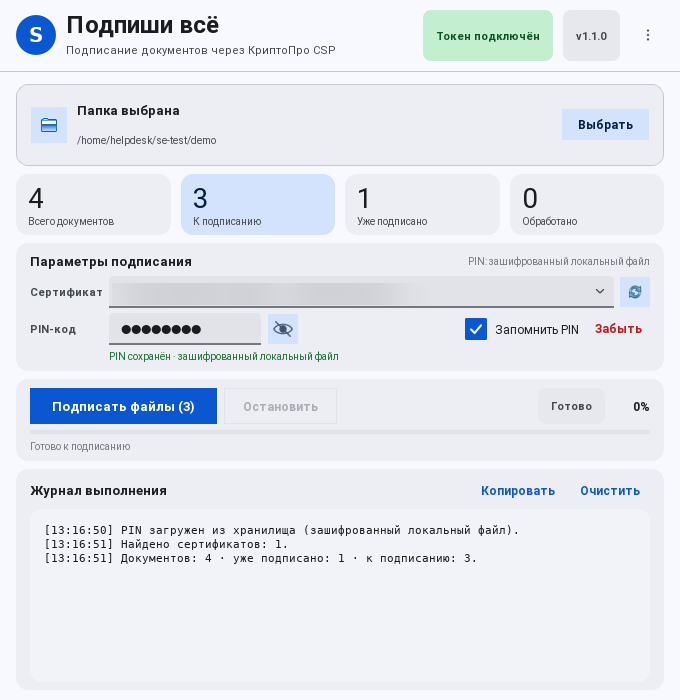
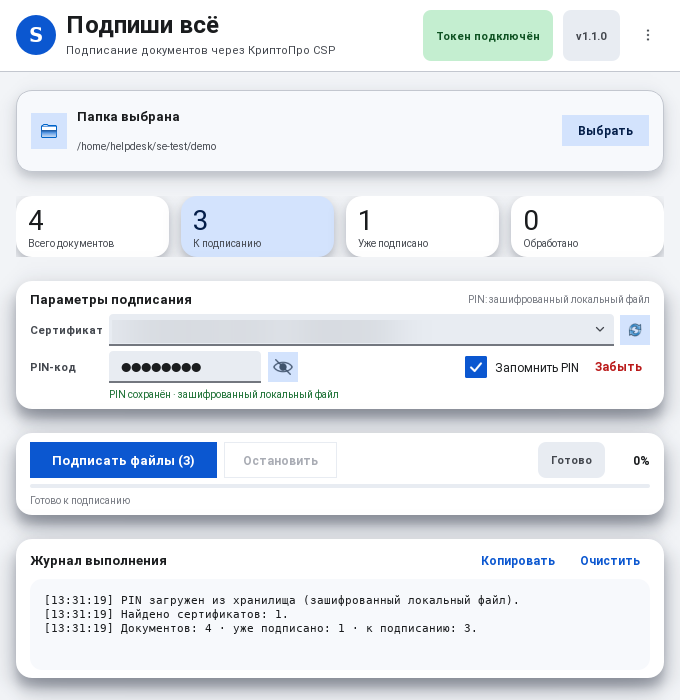
Add explicit card shadows and neutral Material palette

diff --git a/Sign-everything.py b/Sign-everything.py
@@ -50,6 +50,7 @@ from PyQt5.QtWidgets import (
     QDialog,
     QFileDialog,
     QFrame,
+    QGraphicsDropShadowEffect,
     QGridLayout,
     QHBoxLayout,
     QLabel,
@@ -602,6 +603,15 @@ def repolish(widget: QWidget) -> None:
     widget.update()
 
 
+def apply_elevation(widget: QWidget, blur: int = 32, offset: int = 6, alpha: int = 80) -> None:
+    """Материальная тень карточки. QSS box-shadow не поддерживает."""
+    effect = QGraphicsDropShadowEffect(widget)
+    effect.setBlurRadius(blur)
+    effect.setOffset(0, offset)
+    effect.setColor(QColor(15, 23, 42, alpha))
+    widget.setGraphicsEffect(effect)
+
+
 class ElidedLabel(QLabel):
     def __init__(self, text: str = "", parent=None):
         super().__init__(parent)
@@ -652,6 +662,7 @@ class StatCard(QFrame):
         caption_label.setObjectName("StatCaption")
         layout.addWidget(self.value_label)
         layout.addWidget(caption_label)
+        apply_elevation(self, blur=26, offset=5, alpha=80)
 
     def set_value(self, value: int) -> None:
         self.value_label.setText(str(value))
@@ -698,6 +709,7 @@ class DropZone(QFrame):
         self.choose_button.setCursor(Qt.PointingHandCursor)
         self.choose_button.clicked.connect(self.chooseClicked)
         layout.addWidget(self.choose_button)
+        apply_elevation(self, blur=28, offset=6, alpha=65)
 
     def set_folder(self, path: str) -> None:
         self.title_label.setText("Папка выбрана")
@@ -869,7 +881,7 @@ def build_app_qss() -> str:
     chevron = _ui_asset("chevron.png")
     return f"""
 /* Material 3 — базовые поверхности */
-QMainWindow, QWidget#Root, QDialog {{ background: #F8F9FF; }}
+QMainWindow, QWidget#Root, QDialog {{ background: #F2F4F7; }}
 QToolTip {{
     background: #1A1C1E;
     color: #F8F9FF;
@@ -895,7 +907,7 @@ QScrollBar::add-page:vertical, QScrollBar::sub-page:vertical {{ background: tran
 
 /* Меню */
 QMenuBar {{
-    background: #F8F9FF;
+    background: #FFFFFF;
     color: #43474E;
     font-size: 8.5pt;
     padding: 2px 6px;
@@ -906,9 +918,9 @@ QMenuBar::item {{
     padding: 4px 10px;
     border-radius: 8px;
 }}
-QMenuBar::item:selected {{ background: #E1E3E9; color: #1A1C1E; }}
+QMenuBar::item:selected {{ background: #E8ECF2; color: #1A1C1E; }}
 QMenu {{
-    background: #ECEEF4;
+    background: #FFFFFF;
     color: #1A1C1E;
     border: 0;
     border-radius: 12px;
@@ -919,7 +931,7 @@ QMenu::item:selected {{ background: #D3E3FD; color: #041E49; }}
 
 /* Верхняя панель (top app bar) */
 QFrame#Header {{
-    background: #F8F9FF;
+    background: #FFFFFF;
     border: 0;
     border-bottom: 1px solid #C3C7CF;
     border-radius: 0;
@@ -931,7 +943,7 @@ QLabel#BrandMark {{
 QLabel#BrandTitle {{ color: #1A1C1E; font-size: 17pt; font-weight: 500; }}
 QLabel#BrandSubtitle {{ color: #43474E; font-size: 8pt; }}
 QLabel#HeaderBadge {{
-    background: #E6E8EE;
+    background: #E8ECF2;
     border: 0;
     border-radius: 8px;
     color: #43474E;
@@ -944,14 +956,14 @@ QLabel#HeaderBadge[state="ok"] {{ background: #C4EED0; color: #0E5222; }}
 
 /* Карточки */
 QFrame#Card {{
-    background: #ECEEF4;
+    background: #FFFFFF;
     border: 0;
-    border-radius: 12px;
+    border-radius: 16px;
 }}
 QFrame#StatCard {{
-    background: #ECEEF4;
+    background: #FFFFFF;
     border: 0;
-    border-radius: 12px;
+    border-radius: 16px;
 }}
 QFrame#StatCard[accent="true"] {{ background: #D3E3FD; }}
 QLabel#CardTitle {{ color: #1A1C1E; font-size: 9pt; font-weight: 600; }}
@@ -963,16 +975,16 @@ QLabel#StatCaption {{ color: #43474E; font-size: 7.5pt; }}
 
 /* Зона перетаскивания */
 QFrame#DropZone {{
-    background: #F2F3F9;
+    background: #FFFFFF;
     border: 1.5px dashed #C3C7CF;
-    border-radius: 12px;
+    border-radius: 16px;
 }}
 QFrame#DropZone[dragActive="true"] {{
     background: #D3E3FD;
     border: 2px dashed #0B57D0;
 }}
 QFrame#DropZone[selected="true"] {{
-    background: #ECEEF4;
+    background: #F7F9FC;
     border: 1px solid #C3C7CF;
 }}
 QLabel#DropTitle {{ color: #1A1C1E; font-size: 9.5pt; font-weight: 500; }}
@@ -984,7 +996,7 @@ QLabel#DropIcon {{
 
 /* Текстовые поля Material: заливка с нижней линией */
 QComboBox, QLineEdit {{
-    background: #E1E3E9;
+    background: #E8ECF2;
     border: 0;
     border-bottom: 2px solid #73777F;
     border-top-left-radius: 4px;
@@ -999,7 +1011,7 @@ QComboBox, QLineEdit {{
     min-height: 20px;
 }}
 QComboBox:focus, QLineEdit:focus {{
-    background: #E6E8EE;
+    background: #E8ECF2;
     border-bottom: 2px solid #0B57D0;
 }}
 QComboBox:disabled, QLineEdit:disabled {{ color: #8E9199; }}
@@ -1044,7 +1056,7 @@ QPushButton#Primary {{
 }}
 QPushButton#Primary:hover {{ background: #0842A0; }}
 QPushButton#Primary:pressed {{ background: #06327A; }}
-QPushButton#Primary:disabled {{ background: #E1E3E9; color: #A9ACB4; }}
+QPushButton#Primary:disabled {{ background: #E8ECF2; color: #A9ACB4; }}
 QPushButton#Tonal {{
     background: #D3E3FD;
     color: #041E49;
@@ -1055,7 +1067,7 @@ QPushButton#Tonal {{
 }}
 QPushButton#Tonal:hover {{ background: #C2D7FB; }}
 QPushButton#Tonal:pressed {{ background: #B0CBF7; }}
-QPushButton#Tonal:disabled {{ background: #E6E8EE; color: #A9ACB4; }}
+QPushButton#Tonal:disabled {{ background: #E8ECF2; color: #A9ACB4; }}
 QPushButton#Outlined {{
     background: transparent;
     color: #0B57D0;
@@ -1074,7 +1086,7 @@ QPushButton#OutlinedDanger {{
     font-weight: 600;
 }}
 QPushButton#OutlinedDanger:hover {{ background: rgba(186, 26, 26, 0.08); border-color: #BA1A1A; }}
-QPushButton#OutlinedDanger:disabled {{ color: #A9ACB4; border-color: #E1E3E9; background: transparent; }}
+QPushButton#OutlinedDanger:disabled {{ color: #A9ACB4; border-color: #E8ECF2; background: transparent; }}
 QPushButton#IconTonal {{
     background: #D3E3FD;
     border: 0;
@@ -1082,14 +1094,14 @@ QPushButton#IconTonal {{
     padding: 0;
 }}
 QPushButton#IconTonal:hover {{ background: #C2D7FB; }}
-QPushButton#IconTonal:disabled {{ background: #E6E8EE; }}
+QPushButton#IconTonal:disabled {{ background: #E8ECF2; }}
 QToolButton#IconButton {{
     background: transparent;
     border: 0;
     border-radius: 18px;
     padding: 0;
 }}
-QToolButton#IconButton:hover {{ background: #E1E3E9; }}
+QToolButton#IconButton:hover {{ background: #E8ECF2; }}
 QToolButton#IconButton:pressed {{ background: #D3E3FD; }}
 QToolButton#IconButton::menu-indicator {{ image: none; width: 0; }}
 QPushButton#Text {{
@@ -1131,7 +1143,7 @@ QCheckBox::indicator:checked:disabled {{ background: #C3C7CF; border-color: #C3C
 
 /* Прогресс */
 QProgressBar {{
-    background: #E1E3E9;
+    background: #E8ECF2;
     border: 0;
     border-radius: 2px;
     max-height: 4px;
@@ -1141,7 +1153,7 @@ QProgressBar::chunk {{ background: #0B57D0; border-radius: 2px; }}
 
 /* Журнал */
 QTextEdit#Log {{
-    background: #F2F3F9;
+    background: #F7F9FC;
     border: 0;
     border-radius: 12px;
     color: #1A1C1E;
@@ -1154,7 +1166,7 @@ QTextEdit#Log {{
 
 /* Чипы */
 QLabel#Chip {{
-    background: #E6E8EE;
+    background: #E8ECF2;
     color: #43474E;
     border-radius: 8px;
     padding: 5px 10px;
@@ -1163,7 +1175,7 @@ QLabel#Chip {{
 }}
 QLabel#Chip[state="busy"] {{ background: #D3E3FD; color: #041E49; }}
 QLabel#Chip[state="ok"] {{ background: #C4EED0; color: #0E5222; }}
-QLabel#Chip[state="error"] {{ background: #FFDAD6; color: #410002; }}
+QLabel#Chip[state="error"] {{ background: #F1F3F6; color: #7A1A16; }}
 
 QLabel#PinStatus {{ color: #73777F; font-size: 7.5pt; }}
 QLabel#PinStatus[state="ok"] {{ color: #146C2E; }}
@@ -1255,7 +1267,7 @@ class AboutDialog(QDialog):
             link.setTextFormat(Qt.RichText)
             link.setText(
                 f'<a href="{html.escape(url)}" '
-                f'style="color:#2F6BFF; text-decoration:none;">{html.escape(text)}</a>'
+                f'style="color:#0B57D0; text-decoration:none;">{html.escape(text)}</a>'
             )
             link.setOpenExternalLinks(True)
             link.setTextInteractionFlags(Qt.TextBrowserInteraction)
@@ -1273,7 +1285,7 @@ class AboutDialog(QDialog):
 
         footer = QHBoxLayout()
         site = QLabel(
-            f'<a href="{APP_WEBSITE}" style="color:#8190A5; text-decoration:none;">'
+            f'<a href="{APP_WEBSITE}" style="color:#73777F; text-decoration:none;">'
             f'{APP_WEBSITE.replace("https://", "")}</a>'
         )
         site.setObjectName("AboutNote")
@@ -1352,8 +1364,8 @@ class MainWindow(QMainWindow):
         self.setStyleSheet(APP_QSS)
 
         root = QVBoxLayout(body)
-        root.setContentsMargins(16, 12, 16, 10)
-        root.setSpacing(8)
+        root.setContentsMargins(16, 18, 16, 22)
+        root.setSpacing(24)
 
         self.drop_zone = DropZone()
         self.drop_zone.folderDropped.connect(self.select_folder_path)
@@ -1427,7 +1439,7 @@ class MainWindow(QMainWindow):
         container = QWidget()
         layout = QHBoxLayout(container)
         layout.setContentsMargins(0, 0, 0, 0)
-        layout.setSpacing(10)
+        layout.setSpacing(12)
 
         self.stat_total = StatCard("Всего документов")
         self.stat_todo = StatCard("К подписанию", accent=True)
@@ -1440,6 +1452,7 @@ class MainWindow(QMainWindow):
     def _build_settings(self) -> QFrame:
         card = QFrame()
         card.setObjectName("Card")
+        apply_elevation(card, blur=40, offset=10, alpha=135)
         outer = QVBoxLayout(card)
         outer.setContentsMargins(14, 10, 14, 8)
         outer.setSpacing(6)
@@ -1545,6 +1558,7 @@ class MainWindow(QMainWindow):
     def _build_actions(self) -> QFrame:
         card = QFrame()
         card.setObjectName("Card")
+        apply_elevation(card, blur=40, offset=10, alpha=135)
         layout = QVBoxLayout(card)
         layout.setContentsMargins(14, 9, 14, 8)
         layout.setSpacing(6)
@@ -1595,6 +1609,7 @@ class MainWindow(QMainWindow):
     def _build_log(self) -> QFrame:
         card = QFrame()
         card.setObjectName("Card")
+        apply_elevation(card, blur=40, offset=10, alpha=135)
         layout = QVBoxLayout(card)
         layout.setContentsMargins(14, 8, 14, 8)
         layout.setSpacing(5)
